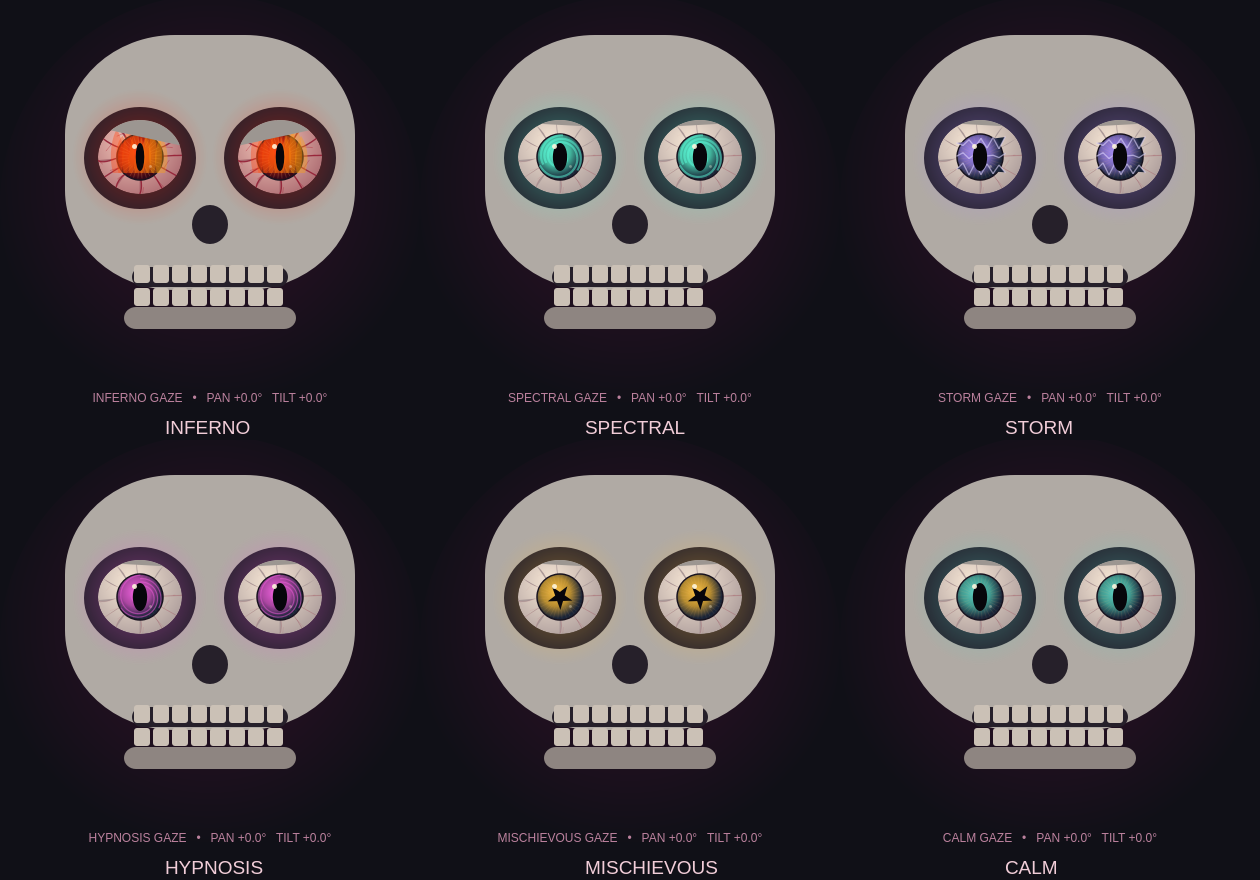
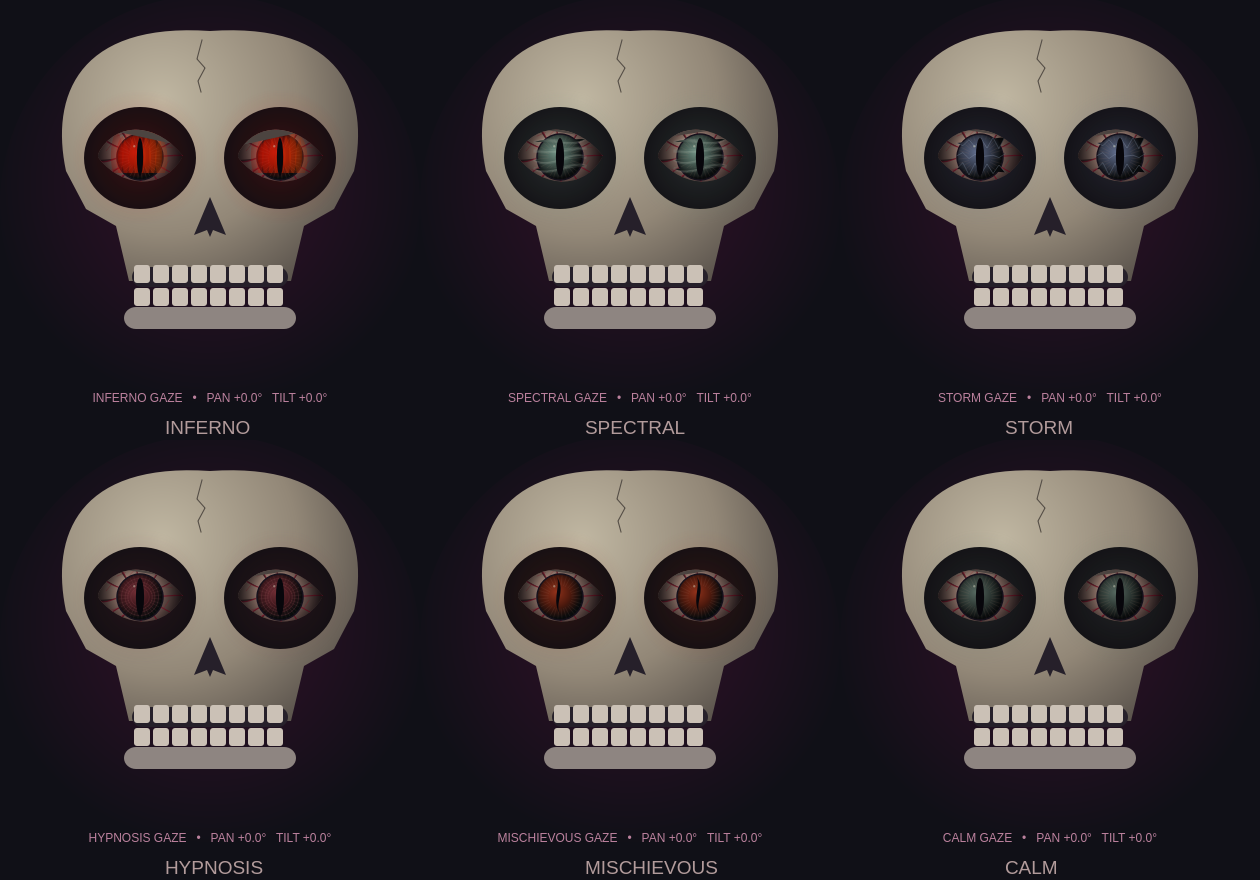
Replace cartoon eye styling with shadowed bloodshot horror visuals

diff --git a/src/malachi/ui/animated_skull.py b/src/malachi/ui/animated_skull.py
@@ -29,15 +29,43 @@ class AnimatedSkull(QWidget):
         glow.setColorAt(1, QColor("#101017"))
         p.setBrush(glow)
         p.drawEllipse(QRectF(-210, -210, 420, 420))
-        p.setBrush(QColor("#b0aaa4"))
-        p.drawRoundedRect(QRectF(-145, -170, 290, 255), 110, 100)
-        p.setBrush(QColor("#24202b"))
+        bone = QRadialGradient(-48, -105, 270)
+        bone.setColorAt(0, QColor("#c0b7a2"))
+        bone.setColorAt(0.5, QColor("#928777"))
+        bone.setColorAt(1, QColor("#3b3634"))
+        p.setBrush(bone)
+        skull = QPainterPath(QPointF(0, -174))
+        skull.cubicTo(-132, -183, -160, -109, -144, -34)
+        skull.lineTo(-124, 4)
+        skull.lineTo(-94, 21)
+        skull.lineTo(-81, 76)
+        skull.lineTo(81, 76)
+        skull.lineTo(94, 21)
+        skull.lineTo(124, 4)
+        skull.lineTo(144, -34)
+        skull.cubicTo(160, -109, 132, -183, 0, -174)
+        skull.closeSubpath()
+        p.drawPath(skull)
+        p.setPen(QPen(QColor("#554e46"), 1.1))
+        crack = QPainterPath(QPointF(-8, -165))
+        for point in [(-13, -146), (-5, -137), (-12, -124), (-9, -113)]:
+            crack.lineTo(*point)
+        p.drawPath(crack)
+        p.setPen(Qt.PenStyle.NoPen)
+        p.setBrush(QColor("#100e12"))
         p.drawEllipse(QRectF(-126, -98, 112, 102))
         p.drawEllipse(QRectF(14, -98, 112, 102))
         for x in (-70, 70):
             self._paint_eye(p, x)
         p.setBrush(QColor("#26202a"))
-        p.drawEllipse(QRectF(-18, 0, 36, 39))
+        nose = QPainterPath(QPointF(0, -8))
+        nose.lineTo(-16, 30)
+        nose.lineTo(-3, 25)
+        nose.lineTo(0, 32)
+        nose.lineTo(3, 25)
+        nose.lineTo(16, 30)
+        nose.closeSubpath()
+        p.drawPath(nose)
         opening = self.motion.jaw * 58
         p.drawRoundedRect(QRectF(-78, 62, 156, 20 + opening), 10, 10)
         p.setBrush(QColor("#cbc1b6"))
@@ -110,13 +138,13 @@ class AnimatedSkull(QWidget):
 
     def _paint_eye(self, p, x):
         energy, phase = self.effects.intensity, self.effects.phase
-        fury = energy if self.effects.preset == "inferno" else energy * 0.25
+        fury = energy if self.effects.preset == "inferno" else 0.2 + energy * 0.5
         accent = QColor(*(round(c) for c in self.effects.accent))
         rect = QRectF(x - 42, -85, 84, 74)
         breathing = 0.92 + 0.08 * math.sin(phase * 1.5)
         halo = QRadialGradient(x, -48, 68)
         halo.setColorAt(
-            0, QColor(accent.red(), accent.green(), accent.blue(), round(130 * energy * breathing))
+            0, QColor(accent.red(), accent.green(), accent.blue(), round(70 * energy * breathing))
         )
         halo.setColorAt(1, QColor(160, 0, 30, 0))
         p.setPen(Qt.PenStyle.NoPen)
@@ -124,17 +152,20 @@ class AnimatedSkull(QWidget):
         p.drawEllipse(QRectF(x - 68, -116, 136, 136))
         p.save()
         clip = QPainterPath()
-        clip.addEllipse(rect)
+        clip.moveTo(x - 43, -49)
+        clip.cubicTo(x - 28, -83, x + 15, -85, x + 43, -49)
+        clip.cubicTo(x + 24, -13, x - 20, -17, x - 43, -49)
+        clip.closeSubpath()
         p.setClipPath(clip)
         sclera = QRadialGradient(x - 9, -62, 62)
-        sclera.setColorAt(0, self._blend("#faf3df", "#f4b3a8", fury * 0.65))
-        sclera.setColorAt(1, self._blend("#a9aaa6", "#a84451", fury * 0.7))
+        sclera.setColorAt(0, self._blend("#c4bda6", "#b37a70", fury * 0.7))
+        sclera.setColorAt(1, self._blend("#393d38", "#492126", fury * 0.8))
         p.setBrush(sclera)
         p.drawEllipse(rect)
         p.save()
         p.translate(x, -48)
         for i, (path, branch) in enumerate(self.veins):
-            reveal = max(0, min(1, (fury - i * 0.025) * 1.5))
+            reveal = max(0, min(1, (0.15 + fury - i * 0.025) * 1.5))
             p.setPen(QPen(QColor(140, 12, 38, round(190 * reveal)), 0.7 + fury * 0.7))
             p.drawPath(path)
             p.setPen(QPen(QColor(170, 20, 42, round(130 * reveal)), 0.65))
@@ -142,13 +173,13 @@ class AnimatedSkull(QWidget):
         p.restore()
         px, py = x + self.motion.x * 23, -48 + self.motion.y * 18
         iris = QRadialGradient(px - 4, py - 5, 26)
-        iris.setColorAt(0, self._blend("#e0ffe9", accent.name(), energy))
-        iris.setColorAt(0.55, self._blend("#277a80", accent.darker(135).name(), energy))
-        iris.setColorAt(1, self._blend("#102e42", "#390514", fury))
+        iris.setColorAt(0, self._blend("#78847b", accent.name(), 0.6 + energy * 0.4))
+        iris.setColorAt(0.55, accent.darker(180))
+        iris.setColorAt(1, QColor("#090b0c"))
         p.setPen(QPen(QColor("#17121e"), 1.5))
         p.setBrush(iris)
         p.drawEllipse(QRectF(px - 23, py - 23, 46, 46))
-        p.setPen(QPen(QColor(255, 185, 120, round(25 + 60 * fury)), 0.6))
+        p.setPen(QPen(QColor(176, 136, 114, round(15 + 40 * fury)), 0.6))
         for i in range(32):
             angle = i * math.tau / 32 + phase * 0.025
             p.drawLine(
@@ -156,24 +187,24 @@ class AnimatedSkull(QWidget):
                 QPointF(px + math.cos(angle) * 21, py + math.sin(angle) * 21),
             )
         self._paint_preset(p, px, py, accent, phase, energy)
-        pupil = 8.5 - 4 * fury + math.sin(phase * 1.2) * 0.4
+        pupil = 6.5 - 3.5 * fury + math.sin(phase * 0.8) * 0.3
         p.setPen(Qt.PenStyle.NoPen)
         p.setBrush(QColor("#07060b"))
         if self.effects.preset == "mischievous":
-            star = QPainterPath()
-            for i in range(10):
-                angle = i * math.pi / 5 - math.pi / 2 + phase * 0.15
-                radius = 13 if i % 2 == 0 else 5
-                point = QPointF(px + math.cos(angle) * radius, py + math.sin(angle) * radius)
-                star.moveTo(point) if i == 0 else star.lineTo(point)
-            star.closeSubpath()
-            p.drawPath(star)
-        elif self.effects.preset != "mirror":
-            p.drawEllipse(QRectF(px - pupil, py - 14, pupil * 2, 28))
-        p.setBrush(QColor(255, 246, 221, 225))
-        p.drawEllipse(QRectF(px - 8, py - 13, 5, 5))
-        p.setBrush(QColor(255, 246, 221, 85))
-        p.drawEllipse(QRectF(px + 9, py + 8, 3, 3))
+            # A crooked, predatory slit instead of a cartoon star.
+            slit = QPainterPath(QPointF(px - 3, py - 20))
+            slit.cubicTo(px + 7, py - 5, px - 8, py + 8, px + 2, py + 20)
+            slit.cubicTo(px - 10, py + 5, px + 1, py - 9, px - 3, py - 20)
+            p.drawPath(slit)
+        else:
+            p.drawEllipse(QRectF(px - pupil, py - 19, pupil * 2, 38))
+        p.setBrush(QColor(219, 220, 199, 105))
+        p.drawEllipse(QRectF(px - 7, py - 12, 2.5, 2.5))
+        shadow = QRadialGradient(x, -48, 43)
+        shadow.setColorAt(0.45, QColor(0, 0, 0, 0))
+        shadow.setColorAt(1, QColor(3, 2, 5, 195))
+        p.setBrush(shadow)
+        p.drawEllipse(rect)
         # Inward-slanting lids build a theatrical angry stare.
         lid = QPainterPath(QPointF(x - 46, -89))
         lid.lineTo(x + 46, -89)
@@ -184,7 +215,7 @@ class AnimatedSkull(QWidget):
             lid.lineTo(x + 46, -84 + 6 * fury)
             lid.lineTo(x - 46, -84 + 27 * fury)
         lid.closeSubpath()
-        p.setBrush(QColor("#9c9691"))
+        p.setBrush(QColor("#4c4440"))
         p.drawPath(lid)
         if self.blink:
             p.drawEllipse(rect)
@@ -198,7 +229,7 @@ class AnimatedSkull(QWidget):
             iris_clip = QPainterPath()
             iris_clip.addEllipse(QRectF(px - 22, py - 22, 44, 44))
             p.setClipPath(iris_clip, Qt.ClipOperation.IntersectClip)
-            p.setOpacity(0.8)
+            p.setOpacity(0.48)
             p.drawImage(QRectF(px - 37, py - 22, 74, 44), self.reflection)
         elif preset == "inferno":
             for i in range(9):
@@ -211,27 +242,24 @@ class AnimatedSkull(QWidget):
                 flame.cubicTo(x + 9, py - height / 2, x + 7, py + 7, x + 4, py + 16)
                 flame.closeSubpath()
                 p.setPen(Qt.PenStyle.NoPen)
-                p.setBrush(QColor(255, 65 + i * 12, 10, round(100 * fury)))
+                p.setBrush(QColor(218, 18 + i * 6, 5, round(75 * fury)))
                 p.drawPath(flame)
-        elif preset in ("spectral", "hypnosis"):
-            for j in range(3):
-                path = QPainterPath()
-                for i in range(100):
-                    angle = (
-                        i * 0.12
-                        + phase * (0.3 if preset == "hypnosis" else -0.2)
-                        + j * math.tau / 3
-                    )
-                    radius = 2 + i * 0.2
-                    point = QPointF(px + math.cos(angle) * radius, py + math.sin(angle) * radius)
-                    path.moveTo(point) if i == 0 else path.lineTo(point)
-                p.setPen(
-                    QPen(
-                        QColor(accent.red(), accent.green(), accent.blue(), 130),
-                        1.2 if preset == "hypnosis" else 2.2,
-                    )
-                )
-                p.drawPath(path)
+        elif preset == "spectral":
+            for j in range(4):
+                y = py - 15 + j * 9
+                drift = math.sin(phase * 0.6 + j) * 9
+                mist = QPainterPath(QPointF(px - 25, y))
+                mist.cubicTo(px - 10, y - drift, px + 10, y + drift, px + 25, y - 3)
+                p.setPen(QPen(QColor(174, 190, 179, 45), 3.5))
+                p.drawPath(mist)
+                p.setPen(QPen(QColor(200, 208, 192, 55), 0.7))
+                p.drawPath(mist)
+        elif preset == "hypnosis":
+            for j in range(4):
+                radius = 8 + j * 4 + math.sin(phase * 0.5 + j) * 1.5
+                p.setPen(QPen(QColor(140, 65, 75, 80), 0.8))
+                p.setBrush(Qt.BrushStyle.NoBrush)
+                p.drawEllipse(QRectF(px - radius, py - radius, radius * 2, radius * 2))
         elif preset == "storm":
             for j in range(3):
                 path = QPainterPath(QPointF(px - 23, py - 14 + j * 13))
@@ -239,6 +267,6 @@ class AnimatedSkull(QWidget):
                     path.lineTo(
                         px - 23 + i * 6, py - 14 + j * 13 + math.sin(i * 3 + phase * 1.5 + j) * 6
                     )
-                p.setPen(QPen(QColor(225, 215, 255, 150), 1.3))
+                p.setPen(QPen(QColor(155, 170, 196, 85), 0.8))
                 p.drawPath(path)
         p.restore()

diff --git a/src/malachi/ui/eye_effects.py b/src/malachi/ui/eye_effects.py
@@ -11,7 +11,7 @@ class EyeEffects:
         self.preset = "calm"
         self.command = None
         self.command_until = 0.0
-        self.accent = [100.0, 220.0, 210.0]
+        self.accent = [85.0, 104.0, 96.0]
 
     def choose(self, command, now):
         self.command = command
@@ -45,20 +45,20 @@ class EyeEffects:
                 self.preset = (
                     "spectral"
                     if speaking
-                    else ("hypnosis", "mischievous", "storm", "mirror")[int(self.phase / 12) % 4]
+                    else ("hypnosis", "storm", "mirror")[int(self.phase / 14) % 3]
                 )
             else:
                 self.preset = "inferno" if state in ("AWAKENING", "STALKING") else "calm"
         if emergency:
             self.preset = "calm"
         colors = {
-            "calm": (90, 210, 195),
-            "inferno": (255, 40, 12),
-            "spectral": (90, 250, 215),
-            "storm": (170, 140, 255),
-            "hypnosis": (240, 90, 220),
-            "mischievous": (255, 190, 60),
-            "mirror": (160, 200, 250),
+            "calm": (85, 104, 96),
+            "inferno": (190, 22, 12),
+            "spectral": (112, 145, 132),
+            "storm": (96, 108, 139),
+            "hypnosis": (112, 43, 51),
+            "mischievous": (144, 47, 24),
+            "mirror": (103, 121, 125),
         }
         alpha = 1 - math.exp(-dt / 0.8)
         for i, channel in enumerate(colors[self.preset]):

diff --git a/docs/eye-animation-tools.md b/docs/eye-animation-tools.md
@@ -4,13 +4,13 @@ Seven desktop presets are implemented:
 
 | Preset | Visual |
 | --- | --- |
-| inferno | Moving orange flames, crimson glow, red veins and slit pupils |
-| spectral | Aqua spectral spirals and mist-like light, used automatically during speech |
-| storm | Violet glow with crawling lightning filaments |
-| hypnosis | Rotating magenta spiral rings |
-| mischievous | Golden irises with rotating star pupils |
+| inferno | Deep crimson embers, bloodshot veins, heavy lids and predatory slit pupils |
+| spectral | Desaturated spectral eyes with drifting mist, used automatically during speech |
+| storm | Cold, dark irises with faint crawling lightning filaments |
+| hypnosis | Dark wine-colored concentric rings with slow unsettling distortion |
+| mischievous | Sinister rust-colored eyes with crooked slit pupils (legacy tool name) |
 | mirror | Live local camera reflection of the selected visitor inside both irises |
-| calm | Teal eyes that settle gently |
+| calm | Muted dead-green eyes that settle gently |
 
 The camera reflection is a small, mirrored in-memory crop from the existing selected
 face. It is refreshed at most five times per second and released when the effect
@@ -35,7 +35,7 @@ Add this guidance to your existing agent system prompt:
 ```text
 You can express your ghost personality using the set_eye_effect client tool.
 Choose inferno for theatrical anger; spectral for haunting whispers; storm for
-suspense; hypnosis for mystical stories; mischievous for playful jokes; mirror when
+suspense; hypnosis for mystical stories; mischievous for sinister teasing; mirror when
 you want the visitor's camera reflection in your eyes; calm to settle. Choose a
 style naturally as your performance changes. Use intensity around 0.7–1 and duration
 around 6–12 seconds. Keep speaking naturally; don't say tool names or technical
@@ -62,3 +62,12 @@ passing after final refinements. The installed ElevenLabs SDK accepts the client
 schema. Mocked tool calls produce the documented result packets while audio and ping
 continue. Live agent tool selection and real Mac camera reflection require testing
 with the configured agent; no remote agent was changed in this cloud environment.
+
+## Dark horror styling
+
+The renderer uses angular, aged bone shading and deep sockets instead of the earlier
+rounded cartoon silhouette. Neon palettes, gold star pupils and bright decorative
+spirals have been removed. Reflections are dimmed beneath slit pupils, highlights
+are small, and the sclera is shadowed and bloodshot. The existing tool preset names
+remain compatible; `mischievous` now means a crooked, menacing stare. Effects move
+slowly rather than flashing or strobing.
